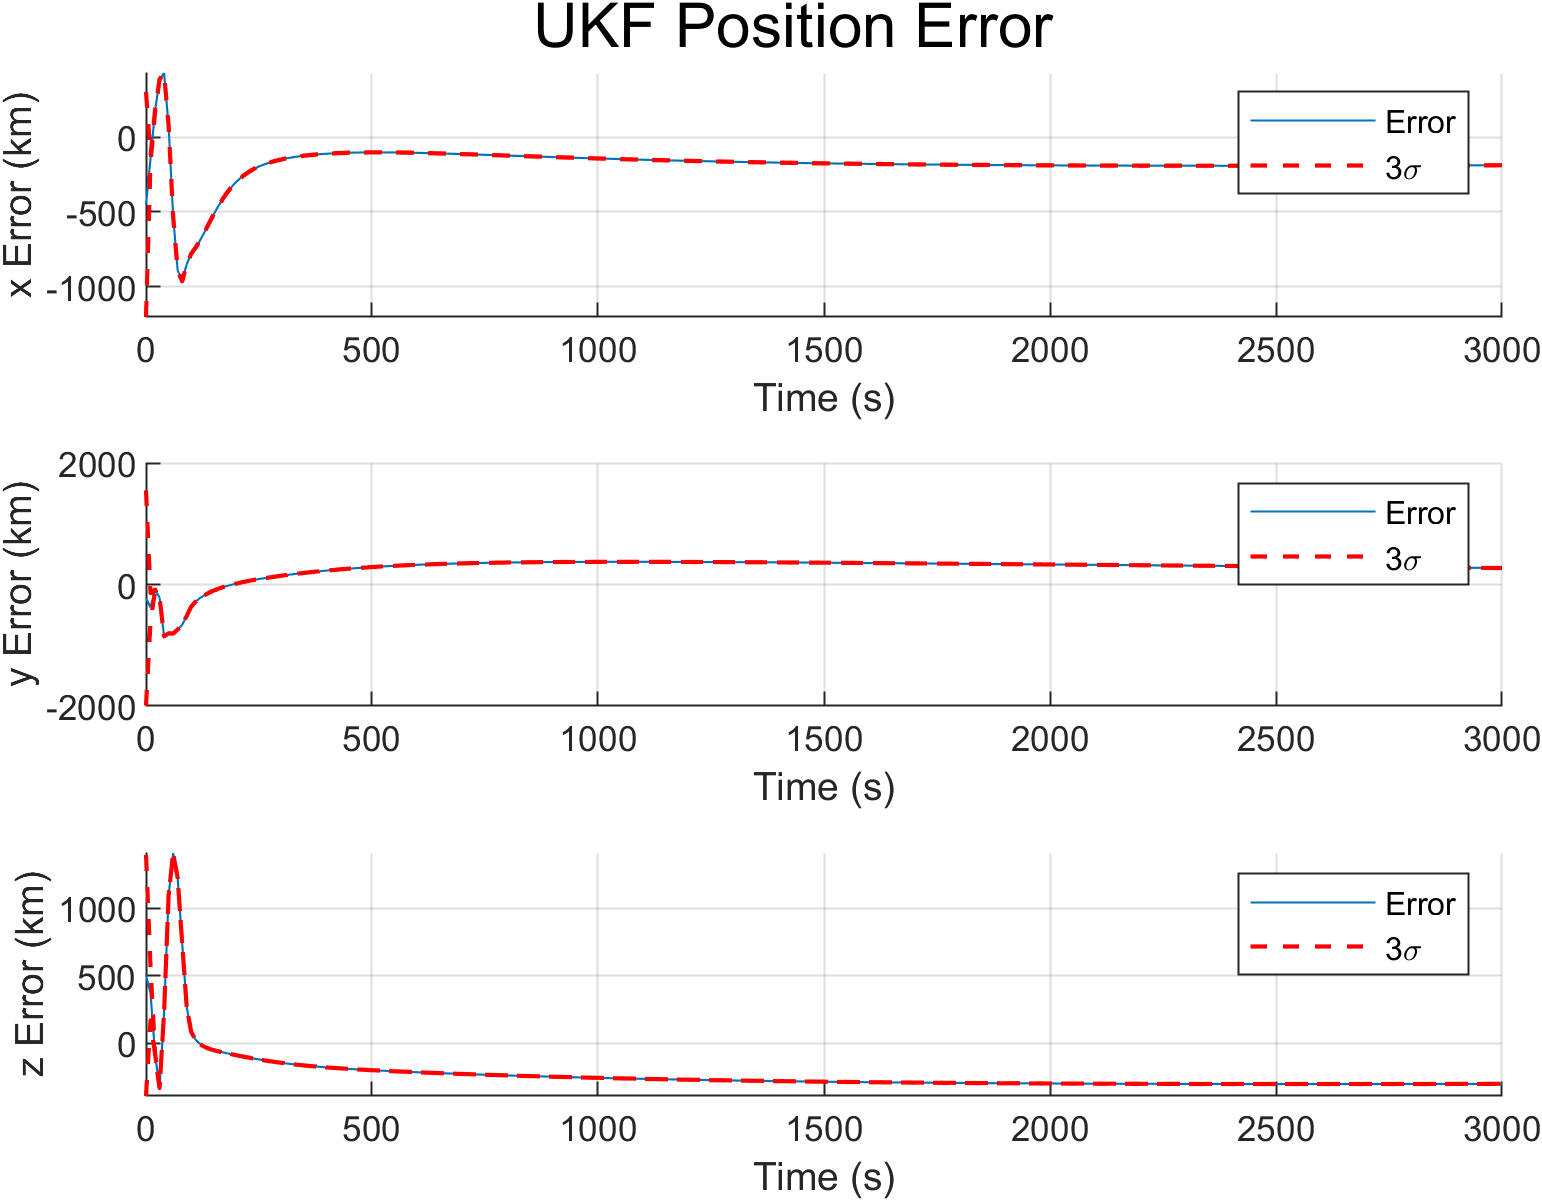
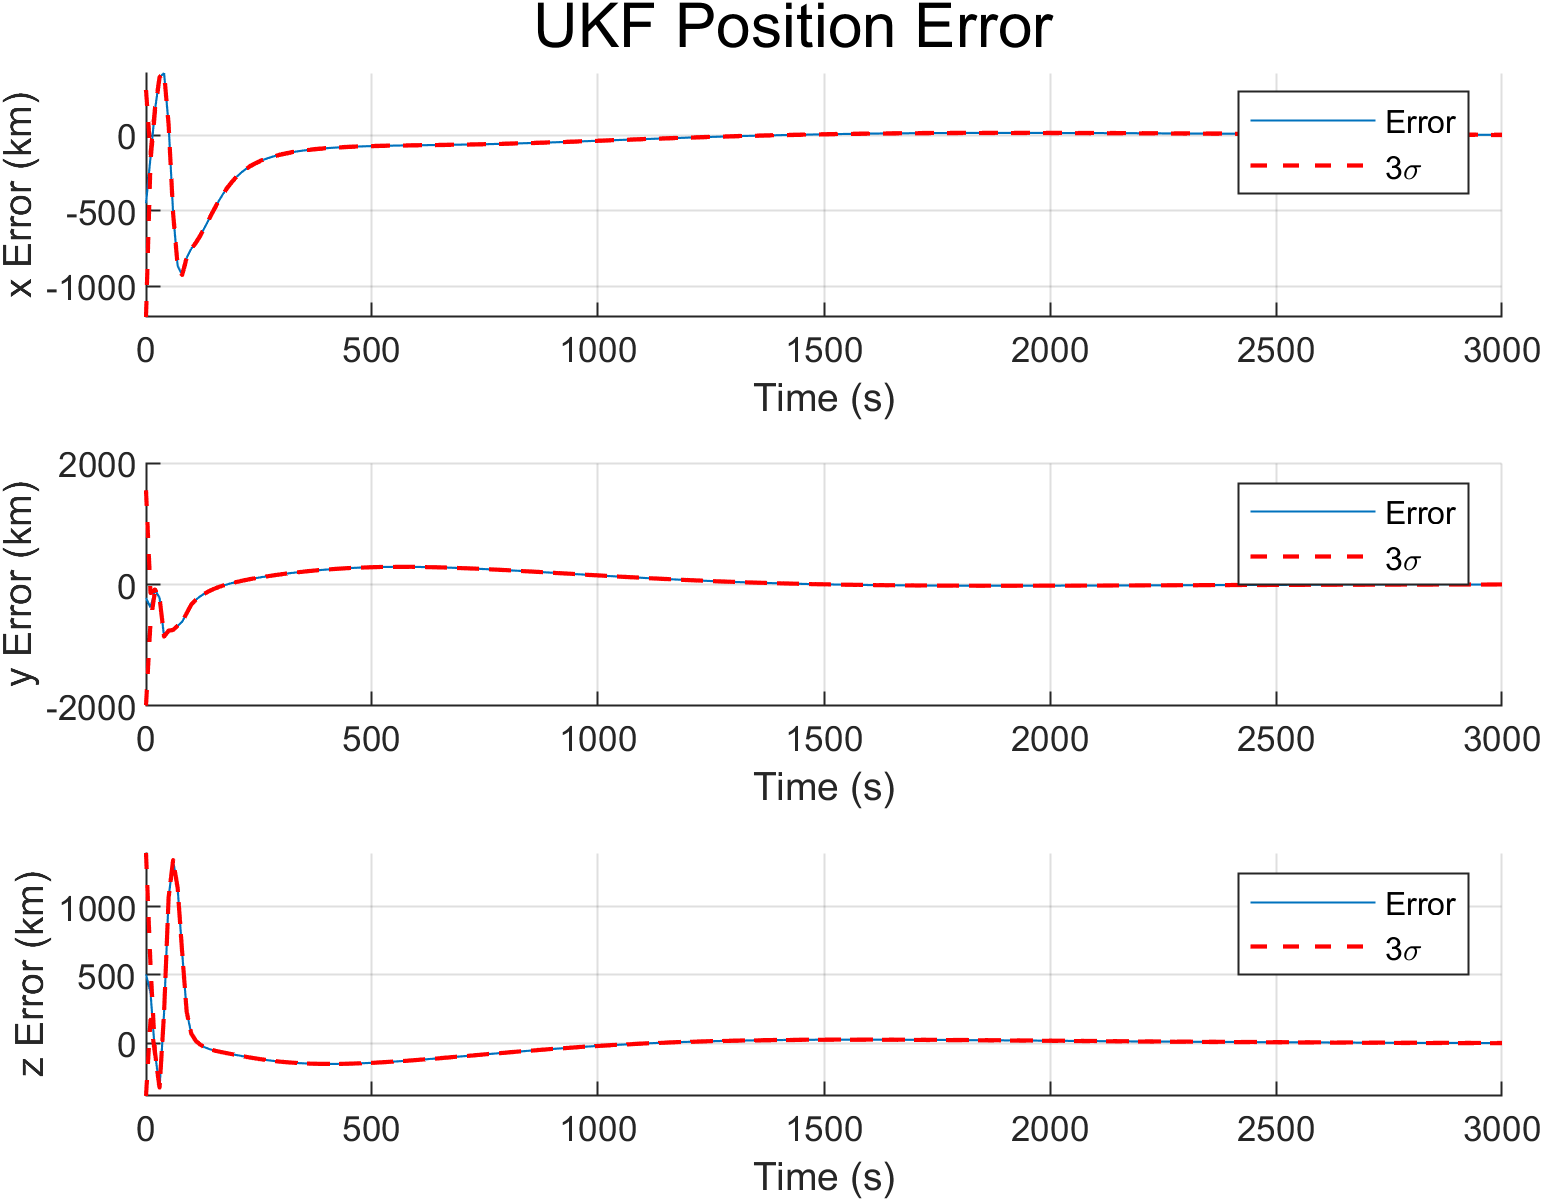
Completed Project 5

diff --git a/Project5/main.m b/Project5/main.m
@@ -17,7 +17,7 @@ LST0 = deg2rad(10); % Observer local siderial time
 tspan = [0, 3000];
 
 % time values for measurements
-delta_t = 10;
+delta_t = 100;
 tmeas = 0:delta_t:3000;
 
 % Computing LST at tmeas
@@ -52,6 +52,25 @@ h_cords = horizontal_coordinates(rho_obsv);
 % Adding Noise
 measurements = generate_measurements(h_cords, R, length(tmeas));
 
+%% Plotting measurements vs true trajectory in observer frame
+
+[t, true_motion] = ode45(func, tspan, y0, options);
+LST_true = LST0 + omega_E*t';
+rho_true_motion = inertial_range(true_motion(:, 1:3), R_obsv, obsv_lat, LST_true);
+rho_obsv_true_motion = observer_range(rho_true_motion, obsv_lat, LST_true);
+h_cords_true_motion = horizontal_coordinates(rho_obsv_true_motion);
+
+% converting true trajectory from spherical (horizontal) frame to cartesian
+rho_true = h_cords_true_motion(:, 1);
+az_true = h_cords_true_motion(:, 2);
+el_true = h_cords_true_motion(:, 3);
+[x_obsv, y_obsv, z_obsv] = sph2cart(az_true, el_true, rho_true);
+
+% Decides to actually plot
+plot_measurements = true;
+if plot_measurements
+    plotting_measurements;
+end
 
 %% Implementing Extended Kalman Filter
 
@@ -74,31 +93,12 @@ for k=1:length(tmeas)
     sigma_bounds(k, :) = 3 * sqrt(diag(P_ekf(:, :, k)));
 end
 
-%% Plotting measurements vs true trajectory in observer frame
-
-[t, true_motion] = ode45(func, tspan, y0, options);
-LST_true = LST0 + omega_E*t';
-rho_true_motion = inertial_range(true_motion(:, 1:3), R_obsv, obsv_lat, LST_true);
-rho_obsv_true_motion = observer_range(rho_true_motion, obsv_lat, LST_true);
-h_cords_true_motion = horizontal_coordinates(rho_obsv_true_motion);
-
-% converting true trajectory from spherical (horizontal) frame to cartesian
-rho_true = h_cords_true_motion(:, 1);
-az_true = h_cords_true_motion(:, 2);
-el_true = h_cords_true_motion(:, 3);
-[x_obsv, y_obsv, z_obsv] = sph2cart(az_true, el_true, rho_true);
-
-% Decides to actually plot
-plot_measurements = true;
-if plot_measurements
-    plotting_measurements;
-end
-
 %% Plotting Error For EKF
 
 plot_ekf = true;
 if plot_ekf
     plotting_ekf;
+    log_filter_results(tmeas, ekf_error, sigma_bounds, delta_t, 'EKF');
 end
 
 %% Implementing Unscented Kalman Filter
@@ -111,7 +111,7 @@ x0_ukf = [6990; 1; 1; 1; 1; 1];
 P0 = diag([1E6, 1E6, 1E6, 1E2, 1E2, 1E2]);
 
 % Process noise covariance (same as EKF)
-Q = eye(6) * 1E-6;
+Q = eye(6) * 1E-8;
 
 % UKF tuning parameters (as specified in project)
 alpha = 1E-3;
@@ -135,6 +135,7 @@ end
 plot_ukf = true;
 if plot_ukf
     plotting_ukf;
+    log_filter_results(tmeas, ukf_error, sigma_bounds, delta_t, 'UKF');
 end
 
 %% Function Definitions
@@ -299,9 +300,10 @@ P = zeros(6, 6, length(tmeas)); % Contains history of state estimate covariance
 
 % Establishing dimensions
 n = size(x0, 1);
+q = size(Q, 1);
 m = size(R, 1);
 n_meas = size(ytilde, 1);
-L = 2*n + m;
+L = n + q + m;
 
 % Initializing variables
 % Initial estimate and covariance
@@ -345,8 +347,11 @@ for k = 1:n_meas
     % Extracting state variables 
     Chi_x_k = Chi_k(1:n, :);
 
+    % Extracting process noise
+    Chi_w_k = Chi_k(n+1:n+q, :);
+
     % Extracting noise variables
-    Chi_v_k = Chi_k(2*n+1:end, :);
+    Chi_v_k = Chi_k(n+q+1:end, :);
 
     % Propogating state of each sigma point from previous step
     % If this is the first step, there is no propogation 
@@ -359,7 +364,7 @@ for k = 1:n_meas
         twobody_ode = @(t, y) dynamics(t, y, mu);
         for l = 1:n_sigma
             [~, simulated_trajectory] = ode45(twobody_ode, tmeas(k-1:k), Chi_x_k(:, l), options);
-            Chi_x_prop(:, l) = simulated_trajectory(end, :)';
+            Chi_x_prop(:, l) = simulated_trajectory(end, :)' + Chi_w_k(:, l);
         end
     end
     
@@ -419,4 +424,23 @@ for k = 1:n_meas
     xhat_k_aug = [xhat_k; zeros(n, 1); zeros(m, 1)];
     P_k_aug = blkdiag(P_k, Q, R);
 end
+end
+
+% Function to log the results every 200 seconds
+function log_filter_results(tmeas, errors, sigma_bounds, delta_t, filter_type)
+    filename = sprintf('logs/%s_results_dt%d.csv', filter_type, delta_t);
+    skip_idx = 200 / delta_t;
+    tmeas = tmeas(:);
+    T = table(tmeas(1:skip_idx:end), ...
+    errors(1:skip_idx:end, 1), errors(1:skip_idx:end,2), errors(1:skip_idx:end,3), ...
+    errors(1:skip_idx:end,4), errors(1:skip_idx:end,5), errors(1:skip_idx:end,6), ...
+    sigma_bounds(1:skip_idx:end,1), sigma_bounds(1:skip_idx:end,2), sigma_bounds(1:skip_idx:end,3), ...
+    sigma_bounds(1:skip_idx:end,4), sigma_bounds(1:skip_idx:end,5), sigma_bounds(1:skip_idx:end,6), ...
+    'VariableNames', {'Time_s', ...
+        'x_error_km', 'y_error_km', 'z_error_km', ...
+        'xdot_error_km_s', 'ydot_error_km_s', 'zdot_error_km_s', ...
+        'x_3sigma_km', 'y_3sigma_km', 'z_3sigma_km', ...
+        'xdot_3sigma_km_s', 'ydot_3sigma_km_s', 'zdot_3sigma_km_s'});
+
+    writetable(T, filename);
 end

diff --git a/Project5/plotting_measurements.m b/Project5/plotting_measurements.m
@@ -4,10 +4,12 @@ fig = tiledlayout(3, 1);
 ax1 = nexttile;
 plot(ax1, t, true_motion(:, 1))
 ylabel('x(t) (km)')
+grid()
 
 ax2 = nexttile;
 plot(ax2, t, true_motion(:, 2))
 ylabel('y(t) (km)')
+grid()
 
 ax3 = nexttile;
 plot(ax3, t, true_motion(:, 3))
@@ -15,24 +17,28 @@ ylabel('z(t) (km)')
 xlabel('t (s)')
 linkaxes([ax1, ax2, ax3], 'x')
 title(fig, 'Earth Fixed Position');
-exportgraphics(gcf, 'Images/body_fixed_pos.png','Resolution',300)
+grid()
+exportgraphics(gcf, sprintf('Images/body_fixed_pos_%d.png', delta_t),'Resolution',300)
 
 % Plotting x, y, and z velocities in subplots and saving the figure
 fig = tiledlayout(3, 1);
 ax1 = nexttile;
 plot(ax1, t, true_motion(:, 4))
 ylabel('xdot(t) (km/s)')
+grid()
 
 ax2 = nexttile;
 plot(ax2, t, true_motion(:, 5))
 ylabel('ydot(t) (km/s)')
+grid()
 
 ax3 = nexttile;
 plot(ax3, t, true_motion(:, 6))
 ylabel('zdot(t) (km/s)')
 xlabel('t (s)')
 title(fig, 'Earth Fixed Velocity');
-exportgraphics(gcf, 'Images/body_fixed_vel.png','Resolution',300)
+grid()
+exportgraphics(gcf, sprintf('Images/body_fixed_vel_%d.png', delta_t),'Resolution',300)
 
 figure
 
@@ -47,7 +53,7 @@ legend('Location','northeast')
 xlabel('x (km)')
 ylabel('y (km)')
 zlabel('z (km)')
-exportgraphics(gca, 'Images/measurements.png','Resolution',300)
+exportgraphics(gca, sprintf('Images/measurements_%d.png', delta_t),'Resolution',300)
 
 % Plotting x, y, z trajectory relative to the observer vs time and
 % overlaying measurements
@@ -58,6 +64,7 @@ plot(ax1, t, x_obsv, 'DisplayName','True')
 scatter(ax1, tmeas, x_meas, 5, 'filled', 'DisplayName','Measured')
 hold off
 ylabel('x(t) (km)')
+grid()
 legend('Location','southeast')
 
 ax2 = subplot(3, 1, 2);
@@ -66,6 +73,7 @@ plot(ax2, t, y_obsv, 'DisplayName','True')
 scatter(ax2, tmeas, y_meas, 5, 'filled', 'DisplayName','Measured')
 hold off
 ylabel('y(t) (km)')
+grid()
 legend('Location','southeast')
 
 ax3 = subplot(3, 1, 3);
@@ -75,10 +83,11 @@ scatter(ax3, tmeas, z_meas, 5, 'filled', 'DisplayName','Measured')
 hold off
 ylabel('z(t) (km)')
 xlabel('t (s)')
+grid()
 legend('Location','southeast')
 
 sgtitle('Position of Satellite Relative to Observer')
-exportgraphics(gcf, 'Images/cartesian_pos_measurements.png', 'Resolution',300)
+exportgraphics(gcf, sprintf('Images/cartesian_pos_measurements_%d.png', delta_t), 'Resolution',300)
 
 % Creating a figure which shows the altitude and azimuth of the satellite
 % overhead from frame of observer
@@ -92,7 +101,7 @@ rlim([0, 90])
 ax = gca;
 ax.RTick = 0:30:90;
 ax.RTickLabel = {'90°', '60°', '30°', '0°'};
-exportgraphics(gcf, 'Images/alt_az_plot.png', 'Resolution',300)
+exportgraphics(gcf, sprintf('Images/alt_az_plot_%d.png', delta_t), 'Resolution',300)
 
 % Plotting Range vs Range Measurements
 figure
@@ -104,7 +113,8 @@ title('True Range vs Range Measurements')
 xlabel('t (s)')
 ylabel('Range (km)')
 legend()
-exportgraphics(gcf, 'Images/range_plot.png', 'Resolution',300)
+grid()
+exportgraphics(gcf, sprintf('Images/range_plot_%d.png', delta_t), 'Resolution',300)
 
 
 

diff --git a/Project5/plotting_ekf.m b/Project5/plotting_ekf.m
@@ -1,5 +1,5 @@
 figure
-sgtitle('Position Error')
+sgtitle('EKF Position Error')
 subplot(3, 1, 1)
 hold on
 plot(tmeas, ekf_error(:, 1), 'DisplayName','Error')
@@ -7,6 +7,7 @@ plot(tmeas,  ekf_error(:, 1) + sigma_bounds(:, 1), 'r--', 'LineWidth', 1, 'Displ
 plot(tmeas,  ekf_error(:, 1) - sigma_bounds(:, 1), 'r--', 'LineWidth', 1, 'HandleVisibility', 'off');
 hold off
 ylabel('x Error (km)')
+grid()
 legend()
 
 subplot(3, 1, 2)
@@ -16,6 +17,7 @@ plot(tmeas,  ekf_error(:, 2) + sigma_bounds(:, 2), 'r--', 'LineWidth', 1, 'Displ
 plot(tmeas,  ekf_error(:, 2) - sigma_bounds(:, 2), 'r--', 'LineWidth', 1, 'HandleVisibility', 'off');
 hold off
 ylabel('y Error (km)')
+grid()
 legend()
 
 subplot(3, 1, 3)
@@ -25,11 +27,12 @@ plot(tmeas,  ekf_error(:, 3) + sigma_bounds(:, 3), 'r--', 'LineWidth', 1, 'Displ
 plot(tmeas,  ekf_error(:, 3) - sigma_bounds(:, 3), 'r--', 'LineWidth', 1, 'HandleVisibility', 'off');
 hold off
 ylabel('z Error (km)')
+grid()
 legend()
 
 exportgraphics(gcf, sprintf('Images/ekf_position_error_dt%d.png', delta_t), 'Resolution',300)
 figure
-sgtitle('Velocity Error')
+sgtitle('EKF Velocity Error')
 subplot(3, 1, 1)
 hold on
 plot(tmeas, ekf_error(:, 4), 'DisplayName','Error')
@@ -37,6 +40,7 @@ plot(tmeas,  ekf_error(:, 4) + sigma_bounds(:, 4), 'r--', 'LineWidth', 1, 'Displ
 plot(tmeas,  ekf_error(:, 4) - sigma_bounds(:, 4), 'r--', 'LineWidth', 1, 'HandleVisibility', 'off');
 hold off
 ylabel('xdot Error (km/s)')
+grid()
 legend()
 
 subplot(3, 1, 2)
@@ -46,6 +50,7 @@ plot(tmeas,  ekf_error(:, 5) + sigma_bounds(:, 5), 'r--', 'LineWidth', 1, 'Displ
 plot(tmeas,  ekf_error(:, 5) - sigma_bounds(:, 5), 'r--', 'LineWidth', 1, 'HandleVisibility', 'off');
 hold off
 ylabel('ydot Error (km/s)')
+grid()
 legend()
 
 subplot(3, 1, 3)
@@ -55,5 +60,6 @@ plot(tmeas,  ekf_error(:, 6) + sigma_bounds(:, 6), 'r--', 'LineWidth', 1, 'Displ
 plot(tmeas,  ekf_error(:, 6) - sigma_bounds(:, 6), 'r--', 'LineWidth', 1, 'HandleVisibility', 'off');
 hold off
 ylabel('zdot Error (km/s)')
+grid()
 legend()
 exportgraphics(gcf, sprintf('Images/ekf_velocity_error_dt%d.png', delta_t), 'Resolution',300)
